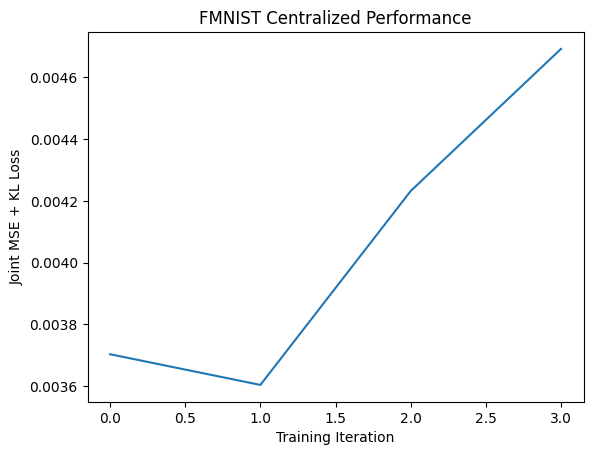
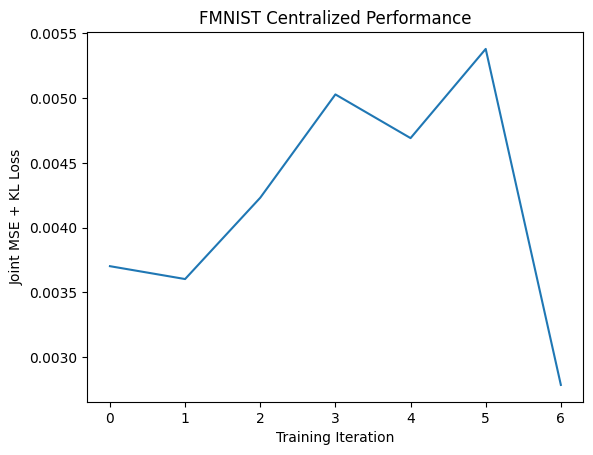
single fmnist autoencoder

diff --git a/client.py b/client.py
@@ -234,10 +234,10 @@ def main(args):
     if args.type == "client":
         fl.client.start_numpy_client("localhost:8080", client=Client())
     else:
-        strategy = FedAvg(min_available_clients=9, min_fit_clients=9, min_eval_clients=9,
+        strategy = FedAvg(min_available_clients=1, min_fit_clients=1, min_eval_clients=1,
                           eval_fn=eval_fn_wrapper(net, testloader))
         fl.server.start_server(
-            "localhost:8080", config={"num_rounds": 3}, strategy=strategy
+            "localhost:8080", config={"num_rounds": 1}, strategy=strategy
         )
 
 
